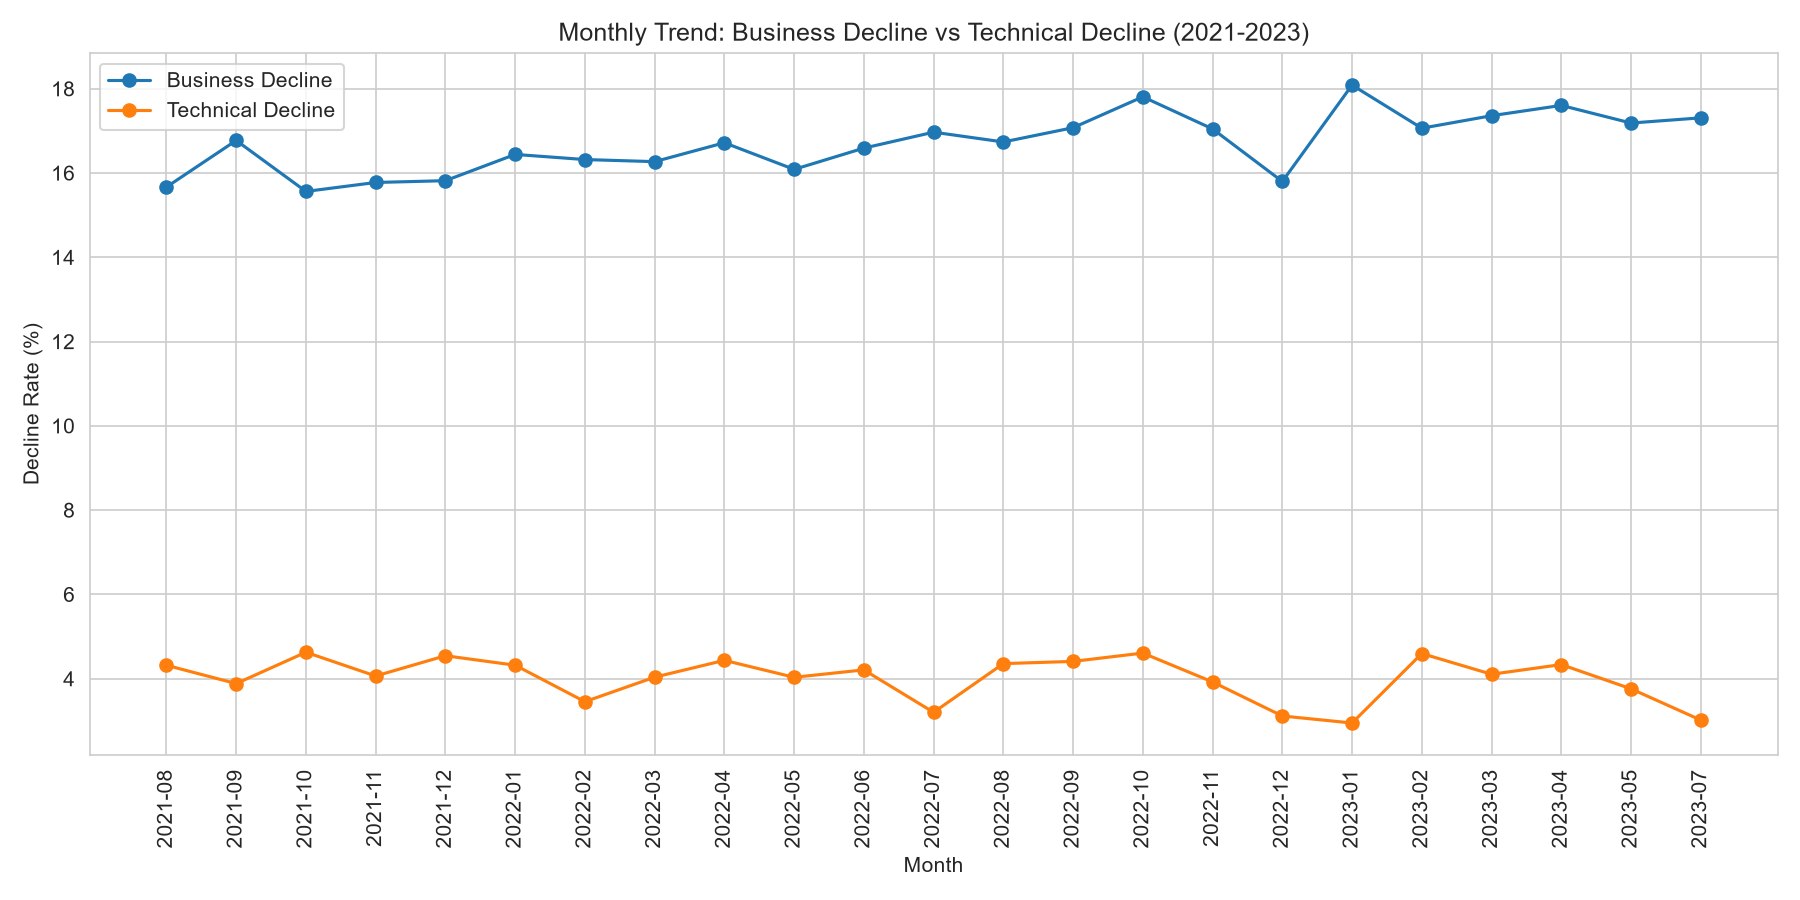
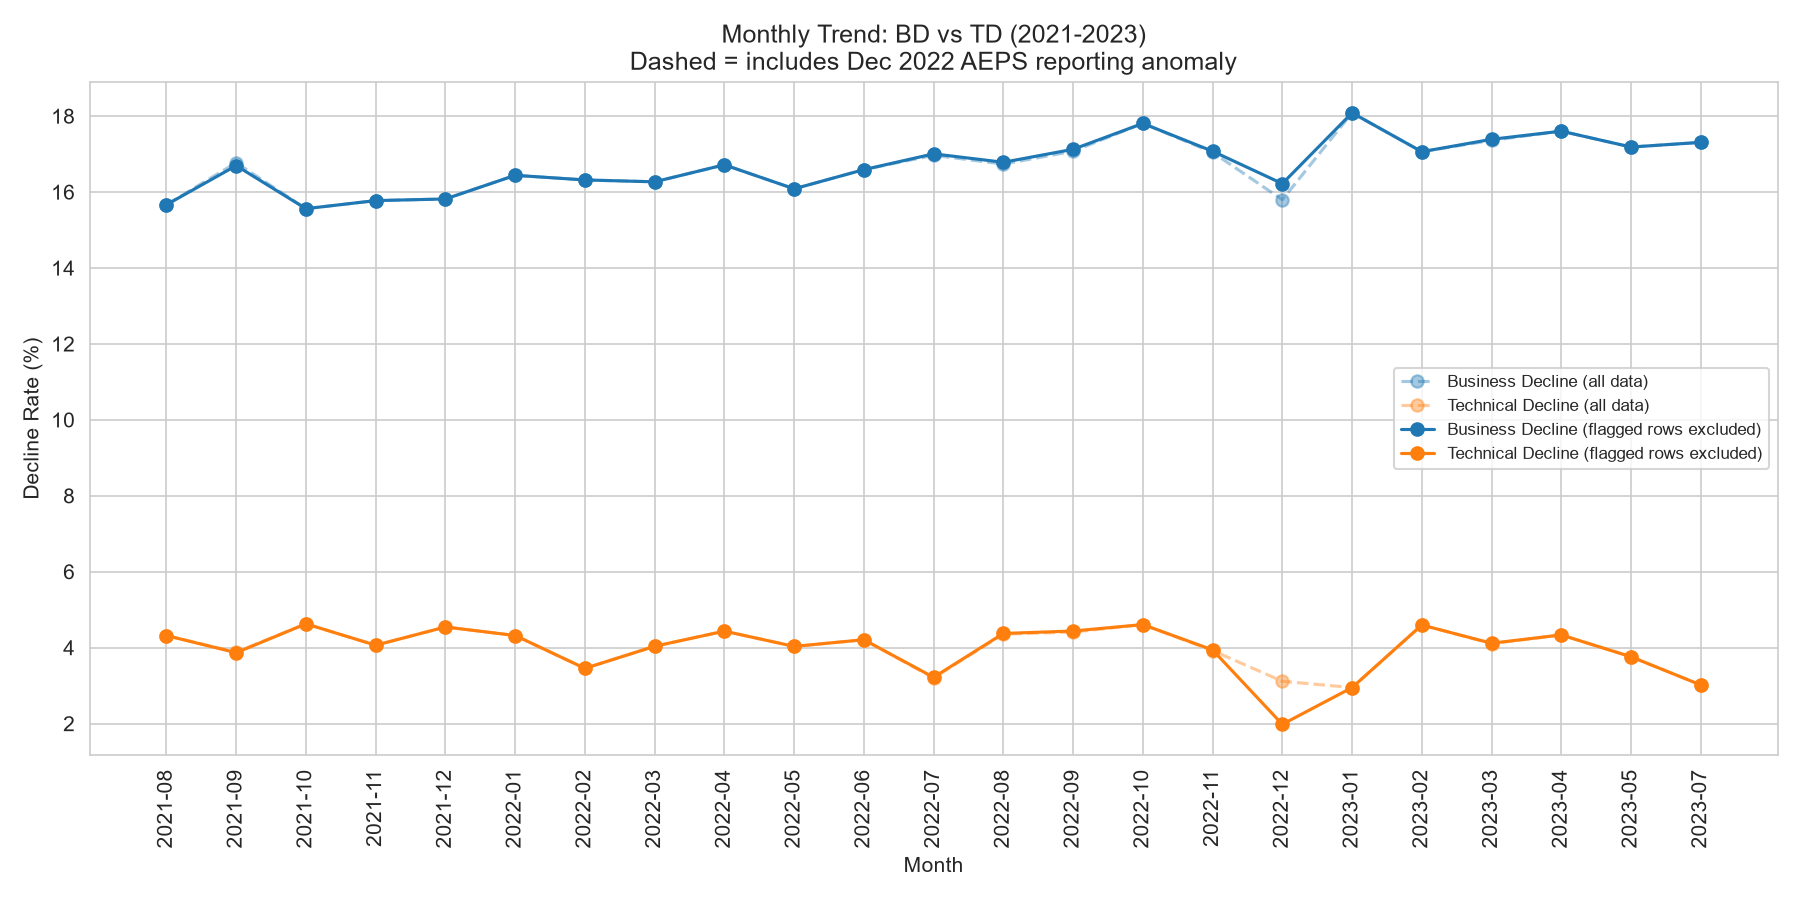
Update trend chart to show flagged-row-excluded comparison; refine anomaly note

diff --git a/FINDINGS.md b/FINDINGS.md
@@ -72,3 +72,8 @@ decline) perform notably worse than peers of similar size.
   seen in Finding #3 for that month — it is probably a reporting gap, 
   not a genuine reliability improvement. Flagged via `data_quality_flag` 
   column rather than removed, so analysis can account for it.
+
+  Note: even after excluding the 47 flagged rows, a modest dip remains 
+  in Dec 2022 among the remaining banks — so some genuine disruption 
+  that month cannot be ruled out, though the flagged rows account for 
+  most of the anomaly.
